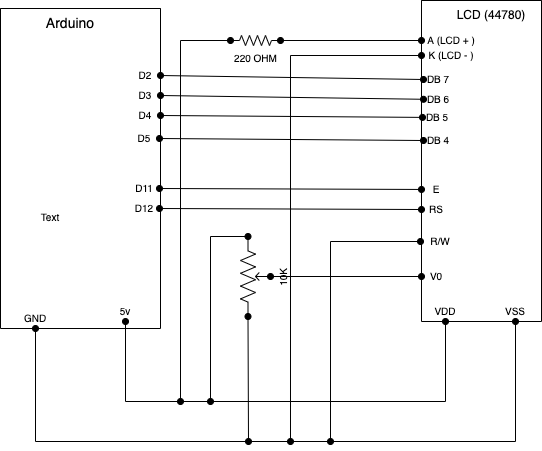
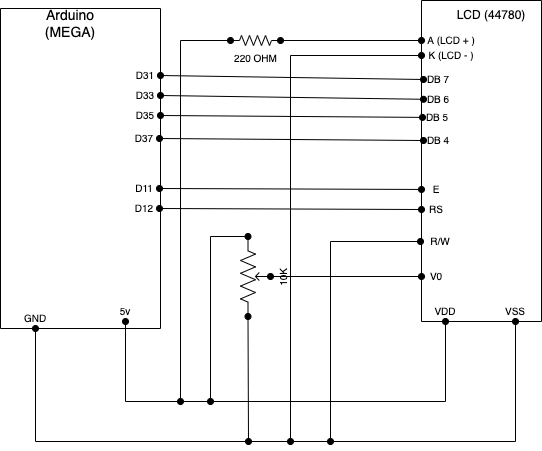
Changed LCD Pins

diff --git a/docs/circuits/lcd_1.md b/docs/circuits/lcd_1.md
@@ -38,10 +38,10 @@ Follow the instructions in [Reference](#REF_1) to wire up the LCD Display and te
 |---------|----|---------|---------|
 |RS       |RS  | 12      | Selects Data or Instruction register  |
 |Enable   |E   | 11      | Starts Data Write  |
-|D4       |D4  | 5       | Data Transfer      |
-|D5       |D5  | 4       | Data Transfer      |
-|D6       |D6  | 3       | Data Transfer      |
-|D7       |D7  | 2       | Data Transfer      |
+|D4       |D4  | 37      | Data Transfer      |
+|D5       |D5  | 35      | Data Transfer      |
+|D6       |D6  | 33      | Data Transfer      |
+|D7       |D7  | 31      | Data Transfer      |
 |RW       |RW  | GND     | Selects Read or Write ( forced to Write ) |
 |VSS      |VSS | GND     | Ground Supply      |
 |VCC      |VCC | 5v      | Power Supply       |
